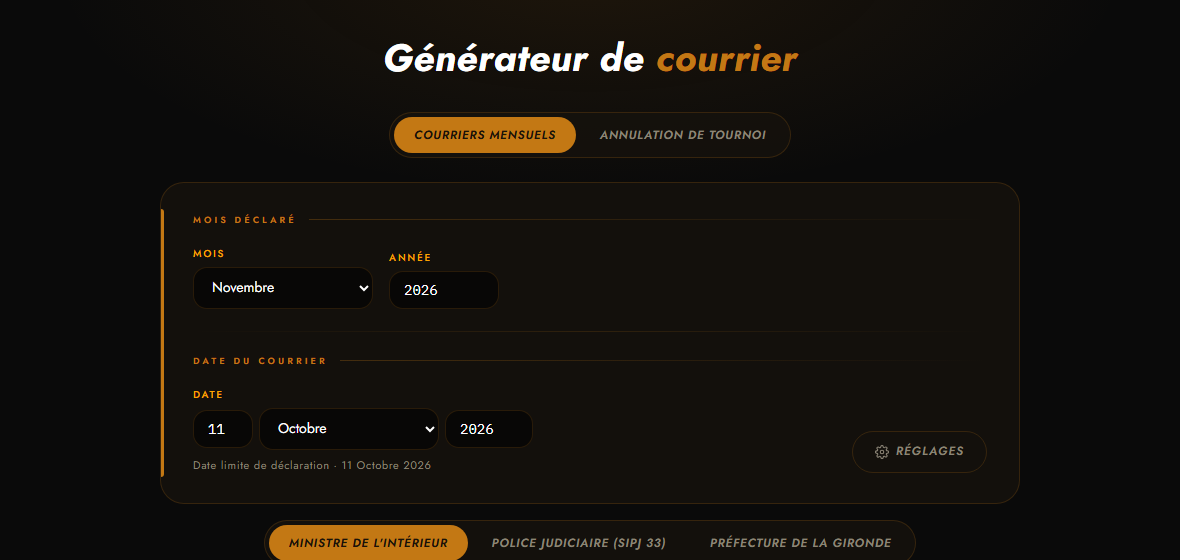
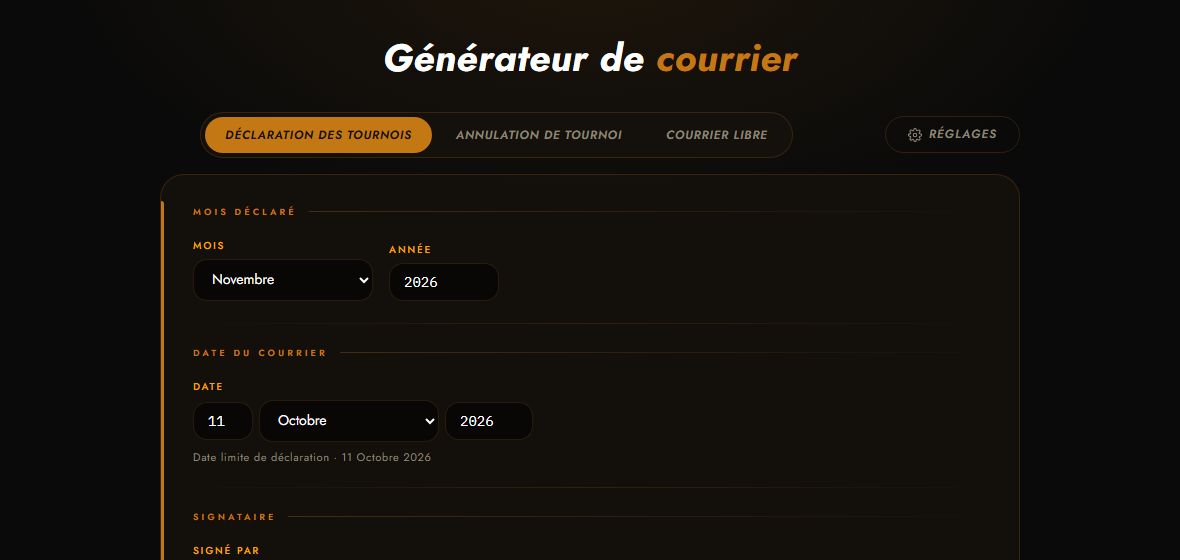
docs(aide): Courrier guides for Machines a sous, refreshed letter captures
- three guides in a new Courrier help space (getting started, annual hours, opening-hours derogation), help button wired
- captures.js: per-capture remembered service; five mas_* captures; courrier captures regenerated (signatories, renamed tab)
- fictitious data: list of two signatories
- home page version list: em dash replaced by a middle dot

diff --git a/aide/aide_guides.js b/aide/aide_guides.js
@@ -13,6 +13,7 @@ var AIDE_ESPACES = {
   'training': 'Training',
   'break-list': 'Break list',
   'materiel': 'Matériel',
+  'courrier': 'Courrier',
 };
 
 var AIDE_GUIDES = [
@@ -1263,6 +1264,87 @@ var AIDE_GUIDES = [
         title: "« Enregistrement impossible » ou « Impossible de charger le matériel »",
         text: "<p>La connexion avec le serveur a échoué. Vérifiez votre connexion, rechargez la page et recommencez. Si le message revient, prévenez l'administrateur.</p>",
         imgs: [],
+      },
+    ],
+  },
+
+  // ══ Courrier (service Machines à sous) ══
+
+  {
+    id: 'courrier-pour-commencer', space: 'courrier', panel: 'courrier',
+    title: 'Pour commencer',
+    intro: "L'espace Courrier du service Machines à sous prépare les courriers aux autorités : la note annuelle des horaires, les dérogations d'horaire et les courriers libres. Les courriers se lisent à l'écran puis s'impriment ou s'enregistrent en PDF.",
+    steps: [
+      {
+        title: "Choisir le service",
+        text: "<p>Si votre compte a accès à plusieurs services, l'accueil propose une tuile par service : choisissez <b>Machines à sous</b>. Le choix est retenu sur ce poste pour votre compte ; la barre affiche le service à côté du logo.</p>"
+          + "<p>Pour passer à un autre service, ouvrez le menu de votre compte, en haut à droite, puis <b>Changer de service</b>.</p>",
+        imgs: [{ src: 'captures/mas_choix.png', alt: "L'accueil : une tuile par service" }],
+      },
+      {
+        title: "Les types de courrier",
+        text: "<p>La page propose trois onglets :</p><ul>"
+          + "<li><b>Horaires annuels</b> : la note de la période d'exploitation et des horaires, envoyée chaque année au Ministre de l'Intérieur ;</li>"
+          + "<li><b>Dérogation d'horaire</b> : une ouverture exceptionnelle, une fermeture anticipée ou une fermeture prolongée ;</li>"
+          + "<li><b>Courrier libre</b> : pour une situation qui n'a pas de courrier prévu (voir le guide des courriers de l'espace Tournois).</li></ul>",
+        imgs: [],
+      },
+      {
+        title: "Destinataires et signataires",
+        text: "<p>Le bouton <b>Réglages</b>, à droite des onglets, ouvre l'éditeur des destinataires (adresse, appel, formule de politesse) et des <b>signataires</b> (un nom et un titre par ligne). Ces réglages sont communs à tous les courriers et aux deux services.</p>"
+          + "<p>Chaque courrier a une liste <b>Signé par</b> : le premier signataire est proposé, choisissez-en un autre si besoin.</p>",
+        imgs: [],
+      },
+    ],
+  },
+
+  {
+    id: 'courrier-horaires-annuels', space: 'courrier', panel: 'courrier',
+    title: 'Déclarer les horaires annuels',
+    intro: "La note des horaires annuels déclare la période d'exploitation et les horaires de fonctionnement des jeux pour un exercice, du 1er novembre au 31 octobre de l'année suivante. Elle part en octobre pour l'exercice qui commence le mois suivant.",
+    steps: [
+      {
+        title: "Choisir l'exercice",
+        text: "<p>Dans l'onglet <b>Horaires annuels</b>, saisissez l'<b>année</b> de fin de l'exercice : 2027 pour l'exercice du 1er novembre 2026 au 31 octobre 2027. La période correspondante s'affiche en gris en dessous. L'exercice qui suit est proposé.</p>",
+        imgs: [{ src: 'captures/mas_horaires.png', alt: "L'année de l'exercice, les horaires par catégorie de jeux et la date du courrier" }],
+      },
+      {
+        title: "Les horaires",
+        text: "<p>Une ligne par catégorie de jeux : la catégorie, les jours et les horaires. <b>+ Ajouter une catégorie</b> ajoute une ligne, <b>Retirer</b> en enlève une.</p>"
+          + "<p><b>Enregistrer les horaires</b> garde les lignes pour les prochaines fois : elles sont enregistrées dans l'application et communes à tous les postes. Sans enregistrement, vos changements servent seulement au courrier en cours.</p>",
+        imgs: [],
+      },
+      {
+        title: "Dater, signer et imprimer",
+        text: "<p>Réglez la <b>date du courrier</b> et le signataire, puis vérifiez le courrier sous le formulaire.</p>"
+          + "<p><b>Imprimer / Exporter PDF</b> ouvre la boîte d'impression. Choisissez <b>Enregistrer en PDF</b> et vérifiez que les marges sont sur <b>Aucune</b>.</p>",
+        imgs: [{ src: 'captures/mas_horaires_lettre.png', alt: "La note des horaires annuels" }],
+      },
+    ],
+  },
+
+  {
+    id: 'courrier-derogation', space: 'courrier', panel: 'courrier',
+    title: "Demander une dérogation d'horaire",
+    intro: "Le courrier de dérogation d'horaire (article 31 de l'arrêté du 14 mai 2007) informe les autorités d'un changement ponctuel des horaires. L'objet et la phrase principale s'écrivent seuls à partir des dates et des heures.",
+    steps: [
+      {
+        title: "Choisir le type de dérogation",
+        text: "<p>Dans l'onglet <b>Dérogation d'horaire</b>, choisissez le <b>type</b> :</p><ul>"
+          + "<li><b>Ouverture exceptionnelle</b> : le jour et l'heure d'ouverture ;</li>"
+          + "<li><b>Fermeture anticipée et réouverture</b> : la séance, l'heure de fermeture, puis le jour et l'heure de réouverture (le lendemain est proposé) ;</li>"
+          + "<li><b>Fermeture prolongée</b> : la soirée et l'heure de fermeture, le lendemain (le réveillon, par exemple).</li></ul>",
+        imgs: [{ src: 'captures/mas_derogation.png', alt: "Le type de dérogation, les dates et heures, le destinataire" }],
+      },
+      {
+        title: "Le destinataire",
+        text: "<p>Choisissez le <b>destinataire</b> : l'adresse, l'appel et la formule de politesse se remplissent, et vous pouvez les modifier. <b>Autre destinataire</b> part d'une adresse vide.</p>",
+        imgs: [],
+      },
+      {
+        title: "Dater, signer et imprimer",
+        text: "<p>Réglez la <b>date du courrier</b> et le signataire, vérifiez le courrier, puis imprimez comme pour les horaires annuels. La dérogation n'est pas enregistrée : imprimez-la ou enregistrez-la en PDF avant de quitter la page.</p>",
+        imgs: [{ src: 'captures/mas_derogation_lettre.png', alt: "Un courrier de fermeture prolongée" }],
       },
     ],
   },

diff --git a/aide/outils/captures.js b/aide/outils/captures.js
@@ -156,9 +156,9 @@ const CAPTURES_TN = [
   { nom: 'ad_decl_annexes', page: 'espaces/tournois/declaration/declaration.html', w: 1280, h: 900, actions: "openView('cfg');showDeclTab('annexes');", css: NU },
   { nom: 'ad_decl_adhoc', page: 'espaces/tournois/declaration/declaration.html', w: 1280, h: 1060, actions: "openView('adhoc');document.getElementById('adhoc-date').value='2026-11-14';document.getElementById('adhoc-cave').value=200;document.getElementById('adhoc-annexe').value=4;addAdhoc();document.getElementById('exc-date').value='2026-11-20';onExcDateChange();applyException();", css: NU },
   // Administration : courriers
-  { nom: 'ad_courrier', page: 'outils/courrier/courriers.html', w: 1180, h: 560, actions: '', css: NU + '.letter-preview-wrap{display:none!important}' },
-  { nom: 'ad_courrier_reglages', page: 'outils/courrier/courriers.html', w: 1180, h: 1010, actions: "toggleTplPanel();", css: NU + '.letter-preview-wrap{display:none!important}' },
-  { nom: 'ad_courrier_annul', page: 'outils/courrier/courriers.html', w: 1180, h: 900, actions: "selectDocType('annulation');['2026-11-17','2026-11-24'].forEach(function(d){document.getElementById('annul-date-input').value=d;addAnnulDate()});document.getElementById('annul-motif').value='de travaux prévus dans la salle de poker';renderAnnulation();", css: NU + '.letter-preview-wrap{display:none!important}' },
+  { nom: 'ad_courrier', service: 'jeux_traditionnels', page: 'outils/courrier/courriers.html', w: 1180, h: 560, actions: '', css: NU + '.letter-preview-wrap{display:none!important}' },
+  { nom: 'ad_courrier_reglages', service: 'jeux_traditionnels', page: 'outils/courrier/courriers.html', w: 1180, h: 1010, actions: "toggleTplPanel();", css: NU + '.letter-preview-wrap{display:none!important}' },
+  { nom: 'ad_courrier_annul', service: 'jeux_traditionnels', page: 'outils/courrier/courriers.html', w: 1180, h: 900, actions: "selectDocType('annulation');['2026-11-17','2026-11-24'].forEach(function(d){document.getElementById('annul-date-input').value=d;addAnnulDate()});document.getElementById('annul-motif').value='de travaux prévus dans la salle de poker';renderAnnulation();", css: NU + '.letter-preview-wrap{display:none!important}' },
   // Administration : extras
   { nom: 'ad_extras_liste', page: 'espaces/tournois/extras/extras.html', w: 1180, h: 800, actions: '', css: NU },
   { nom: 'ad_extras_emarg', page: 'espaces/tournois/extras/extras.html', w: 1180, h: 900, actions: "showTab('emargement');", css: NU + '#emarg-output{display:none!important}' },
@@ -241,11 +241,31 @@ const CAPTURES_MT = [
 ];
 CAPTURES.push.apply(CAPTURES, CAPTURES_MT);
 
+// Service Machines à sous : choix du service à l'accueil, horaires annuels, dérogation d'horaire (réglages fictifs de l'espace Tournois)
+const MAS = 'machines_a_sous';
+const SANS_LETTRE = NU + ' .letter-preview-wrap{display:none!important}';
+const LETTRE_SEULE = NU + ' .app{display:none!important} .letter-preview-wrap{padding:16px 0!important}';
+const DEROGATION = "selectDocType('derogation');var v=document.getElementById('der-variante');v.value='prolongee';onDerVarianteChange();document.getElementById('der-jour').value='2026-12-31';onDerJourChange();var d=document.getElementById('der-dest');d.value='prefecture';onDerDestChange();";
+const CAPTURES_MAS = [
+  { nom: 'mas_choix', service: '', page: 'index.html', w: 1180, h: 420, actions: '', css: '*{transition:none!important} .footer{display:none!important}' },
+  { nom: 'mas_horaires', service: MAS, page: 'outils/courrier/courriers.html', w: 1180, h: 1000, actions: '', css: SANS_LETTRE },
+  { nom: 'mas_horaires_lettre', service: MAS, page: 'outils/courrier/courriers.html', w: 900, h: 860, actions: '', css: LETTRE_SEULE },
+  { nom: 'mas_derogation', service: MAS, page: 'outils/courrier/courriers.html', w: 1180, h: 1150, actions: DEROGATION, css: SANS_LETTRE },
+  { nom: 'mas_derogation_lettre', service: MAS, page: 'outils/courrier/courriers.html', w: 900, h: 760, actions: DEROGATION, css: LETTRE_SEULE },
+];
+CAPTURES.push.apply(CAPTURES, CAPTURES_MAS);
+
+// Service retenu sur le poste pour le compte fictif (id 'u') : c.service = id du service, '' pour aucun (choix à l'accueil)
+function SERVICE(c) {
+  if (c.service === undefined) return '';
+  return '<script>try{' + (c.service ? 'localStorage.setItem("pm_service_u","' + c.service + '")' : 'localStorage.removeItem("pm_service_u")') + '}catch(e){}</script>';
+}
+
 function buildPage(c) {
   let h = fs.readFileSync(path.join(ROOT, c.page), 'utf8');
   h = h.replace(/<script src="(?:\.\.\/)*shared\/vendor\/supabase_js\.js"><\/script>\s*/, '')
     .replace(/<script src="[^"]*supabase\.js"><\/script>/, function () { return c.page.indexOf('espaces/break_list/') === 0 ? BASE : isTr(c) ? BASE_TR : isTda(c) ? BASE_TDA : isMt(c) ? BASE_MT : BASE_TN; })
-    .replace('<head>', '<head><script>history.replaceState(null,"","/' + c.page + '");</script>' + FIGE + (c.page.indexOf('espaces/break_list/') === 0 || isTda(c) || isMt(c) ? '' : isTr(c) ? SEED(c.seed || 7) : ''))   // l'adresse reprend le vrai nom de la page : la barre reconnaît l'espace courant
+    .replace('<head>', '<head><script>history.replaceState(null,"","/' + c.page + '");</script>' + FIGE + SERVICE(c) + (c.page.indexOf('espaces/break_list/') === 0 || isTda(c) || isMt(c) ? '' : isTr(c) ? SEED(c.seed || 7) : ''))   // l'adresse reprend le vrai nom de la page : la barre reconnaît l'espace courant
     .replace('</head>', '<style>' + c.css + '</style></head>')
     .replace('</body>', '<script>window.addEventListener("load",function(){setTimeout(function(){' + c.actions + '},900)});</script></body>');
   const file = path.join(path.dirname(path.join(ROOT, c.page)), '_qa_aide_' + c.nom + '.html');

diff --git a/aide/outils/donnees_fictives.js b/aide/outils/donnees_fictives.js
@@ -130,9 +130,9 @@ function encadrement() {
 
 /** Destinataires et signataires fictifs des courriers (à la place des vrais, par défaut dans l'application) */
 function courriersGabarits() {
-  const sig = 'Camille EXEMPLE';
-  const base = function (recipient, salutation, formule) { return { recipient: recipient, salutation: salutation, closingFormula: formule, sigName: sig, autresItems: ['Premier destinataire en copie', 'Second destinataire en copie'] }; };
+  const base = function (recipient, salutation, formule) { return { recipient: recipient, salutation: salutation, closingFormula: formule, autresItems: ['Premier destinataire en copie', 'Second destinataire en copie'] }; };
   return {
+    signataires: [{ nom: 'Camille EXEMPLE', titre: 'Directeur Responsable' }, { nom: 'Dominique EXEMPLE', titre: 'Directeur Machines à sous' }],
     ministre: base(['Destinataire numéro 1', 'Service des jeux', '1, rue de l\'Exemple', '75000 PARIS'], 'Madame, Monsieur,', 'Vous en souhaitant bonne réception, je vous prie de croire à l\'assurance de ma haute considération.'),
     sipj: base(['Destinataire numéro 2', 'Section des jeux', '2, rue de l\'Exemple', '33000 BORDEAUX'], null, 'Vous en souhaitant bonne réception, je vous prie de croire à l\'assurance de ma haute considération.'),
     prefecture: base(['Destinataire numéro 3', 'À l\'attention du service concerné', '3, rue de l\'Exemple', '33000 BORDEAUX'], null, 'Vous en souhaitant bonne réception, je vous prie de croire à l\'assurance de ma haute considération.'),

diff --git a/index.html b/index.html
@@ -157,7 +157,7 @@ AUTH.guard({ loginUrl: 'login.html' }).then(async function(user) {
   if (!list) return;
   list.innerHTML = CHANGELOG.map(function (e) {
     return '<div>'
-      + '<div class="cl-version">' + e.version + ' &mdash; ' + e.date + '</div>'
+      + '<div class="cl-version">' + e.version + ' · ' + e.date + '</div>'
       + '<ul class="cl-entries"><li>' + e.message + '</li></ul>'
       + '</div>';
   }).join('');

diff --git a/shared/nav.js b/shared/nav.js
@@ -146,6 +146,7 @@ const NAV = (function () {
     'espaces/break_list/planning.html': 'break-list-planning',
     'espaces/break_list/parametres.html': 'break-list-parametres',
     'materiel': 'materiel-pour-commencer',
+    'courrier': 'courrier-pour-commencer',
   };
 
   // Index des pages : chemin → { s: espace, i: entrée de la barre à souligner }

diff --git a/CONTEXT.md b/CONTEXT.md
@@ -190,7 +190,7 @@ Pages regroupées dans le menu **Administration tournois** de la barre (panel `a
 - Date courrier auto-calculée à J-21 du début du mois déclaré
 - Triangle des destinataires : chaque courrier liste les 2 autres destinataires
 - Accessible par le menu « Administration tournois » (Jeux traditionnels, panel `admin-tournois`) et par l'espace **Courrier** du service Machines à sous (panel `courrier`, qui n'ouvre que les réglages `courrier*`). Types proposés selon le service courant (`TYPES_PAR_SERVICE` dans `courriers.js`, lu dans `NAV.etat()` une fois l'accès validé) : Jeux traditionnels = Déclaration des tournois, Annulation de tournoi, Courrier libre ; Machines à sous = Période d'exploitation, Dérogation d'horaire, Courrier libre. Un seul type : la barre des types est masquée.
-- **Courriers d'horaires** (Machines à sous, novembre 2026, `courriers_horaires.js`) : **Horaires annuels** (période d'exploitation, art. 19, note annuelle au Ministre de l'Intérieur, sans objet comme l'original) : par exercice, du 1er novembre N au 31 octobre N+1 (on choisit l'année N+1, la période s'affiche en dessous ; l'exercice qui suit le mois d'octobre courant est proposé), une ligne d'horaires par catégorie de jeux (catégorie, jours, horaires), enregistrée en base par « Enregistrer les horaires » (clé `courriers_horaires`, droit `courrier` ou `admin-tournois`). **Dérogation d'horaire** (art. 31) : trois variantes, ouverture exceptionnelle (jour, heure), fermeture anticipée (séance, heure, puis réouverture le lendemain par défaut), fermeture prolongée (soirée, heure du lendemain) ; objet et phrase générés ; destinataire au choix (SIPJ 33 par défaut) qui pré-remplit adresse, appel et formule comme le courrier libre. Rien n'est enregistré pour les dérogations. Pas encore de guide d'aide pour ces courriers.
+- **Courriers d'horaires** (Machines à sous, novembre 2026, `courriers_horaires.js`) : **Horaires annuels** (période d'exploitation, art. 19, note annuelle au Ministre de l'Intérieur, sans objet comme l'original) : par exercice, du 1er novembre N au 31 octobre N+1 (on choisit l'année N+1, la période s'affiche en dessous ; l'exercice qui suit le mois d'octobre courant est proposé), une ligne d'horaires par catégorie de jeux (catégorie, jours, horaires), enregistrée en base par « Enregistrer les horaires » (clé `courriers_horaires`, droit `courrier` ou `admin-tournois`). **Dérogation d'horaire** (art. 31) : trois variantes, ouverture exceptionnelle (jour, heure), fermeture anticipée (séance, heure, puis réouverture le lendemain par défaut), fermeture prolongée (soirée, heure du lendemain) ; objet et phrase générés ; destinataire au choix (SIPJ 33 par défaut) qui pré-remplit adresse, appel et formule comme le courrier libre. Rien n'est enregistré pour les dérogations. Guides d'aide : espace Courrier (Pour commencer, Déclarer les horaires annuels, Demander une dérogation d'horaire).
 - **Trois types de document** (barre `doc-type-bar`) : Déclaration des tournois (les courriers mensuels), Annulation de tournoi, **Courrier libre** (octobre 2026). En-tête, signature et pied de page sont communs aux trois (`letterHeaderHtml`, `letterSignatureHtml`, `letterFooterHtml` dans `courriers.js`), ainsi que le bloc « Autres destinataires » (`lettreAutresHtml`, masqué s'il est vide).
 - **Courrier libre** : pour une situation hors cadre. Destinataire au choix (les 3 modèles, ou « Autre destinataire »), qui pré-remplit adresse, appel et formule de politesse, tous modifiables ; objet, texte (une ligne vide sépare deux paragraphes), copies facultatives, date. Le signataire vient du modèle choisi (Réglages). **Rien n'est enregistré** (ni en base, ni en local) : le courrier n'existe que le temps de la page. Une alerte s'affiche si le texte dépasse la page A4 (même mise en page figée, 1 page). Titre du PDF : « Courrier - <destinataire> - <date> ».
 
@@ -279,6 +279,7 @@ Tutoriel de l'application pour les collègues moins à l'aise avec l'outil (dema
 - **Contenu** : `aide/aide_guides.js` (`AIDE_ESPACES`, `AIDE_GUIDES` : `{ id, space, panel, title, intro, steps: [{ title, text (HTML), imgs: [{ src, alt }] }] }`). Pour ajouter un guide, une entrée suffit ; pour un nouvel espace, l'ajouter à `AIDE_ESPACES` et à `HELP` dans `nav.js`.
 - **Captures** : `aide/captures/*.png`, **générées avec des données entièrement fictives** (aucun vrai nom) par `node aide/outils/captures.js [nom ...]` (Node et Chrome requis, variable `CHROME` si besoin ; données dans `aide/outils/donnees_fictives.js`, date figée au mercredi 14 octobre 2026 à 20 h). À refaire après toute modification d'un écran décrit dans un guide. L'outil lance un serveur local et Chrome sans interface ; **le serveur et Chrome doivent tourner dans des processus séparés** (appel asynchrone), sinon blocage.
 - **Guides de la Break list** (livrés) : Pour commencer, Importer le planning du mois, Présents et absents de la séance, Faire les départs, Régler les paramètres, Résolution des problèmes courants. **Ne décrivent pas l'extraction Octime elle-même** (hors application, choix de l'utilisateur : le guide commence au collage dans l'application). Le bouton « ? » ouvre le guide de la page courante si elle en a un (Planning, Paramètres), sinon celui de l'espace.
+- **Guides de l'espace Courrier** (service Machines à sous, novembre 2026, 3, panel `courrier`) : Pour commencer (choix du service, types de courrier, réglages), Déclarer les horaires annuels, Demander une dérogation d'horaire. Captures `mas_*` : `captures.js` fixe le service retenu du compte fictif par capture (champ `service`, `''` = choix à l'accueil).
 - **Guides de l'espace Tournois** (livrés, 12) : Pour commencer, Préparer le prize pool, Saisir les résultats d'un tournoi, Consulter le classement et l'historique, Consulter le règlement TDA, Rechercher dans le règlement (droit `tda`), Clôturer la saison (**réservé aux administrateurs** : champ `admin: true` du guide), Déclaration mensuelle, Générer les courriers, Gérer les extras, Calendrier et barèmes, Résolution des problèmes courants. Chaque guide a son droit (`prize-pool`, `leaderboard`, `admin-tournois`, `tournois`). Le bouton « ? » de chaque page de l'espace ouvre le guide correspondant. Le guide précédent / suivant reste dans le même espace.
 - **Captures de l'espace Tournois** : données fictives de `donnees_fictives.js` (joueurs, saison complète 2025 / 2026, extras, encadrement, gabarits de courriers). L'encadrement, les courriers et l'émargement viennent de la base simulée de la capture (`getParametre` / `getParametres`, constante `REGLAGES_FICTIFS` de `captures.js`) : **ne jamais photographier ces pages avec de vraies données**.
 - **Guides de l'espace Training** (livrés, 9) : Pour commencer, S'entraîner au Black Jack, Roulette : les calculs, Roulette : le tapis, S'entraîner à l'Ultimate Texas Hold'em, Suivre ses résultats, Suivre l'équipe (droit `training-suivi`), Configurer les modules (**administrateurs**), Résolution des problèmes courants. **Pas de règles de jeu** dans les guides (décision de l'utilisateur, « pour l'instant ») : seulement l'usage des modules.
